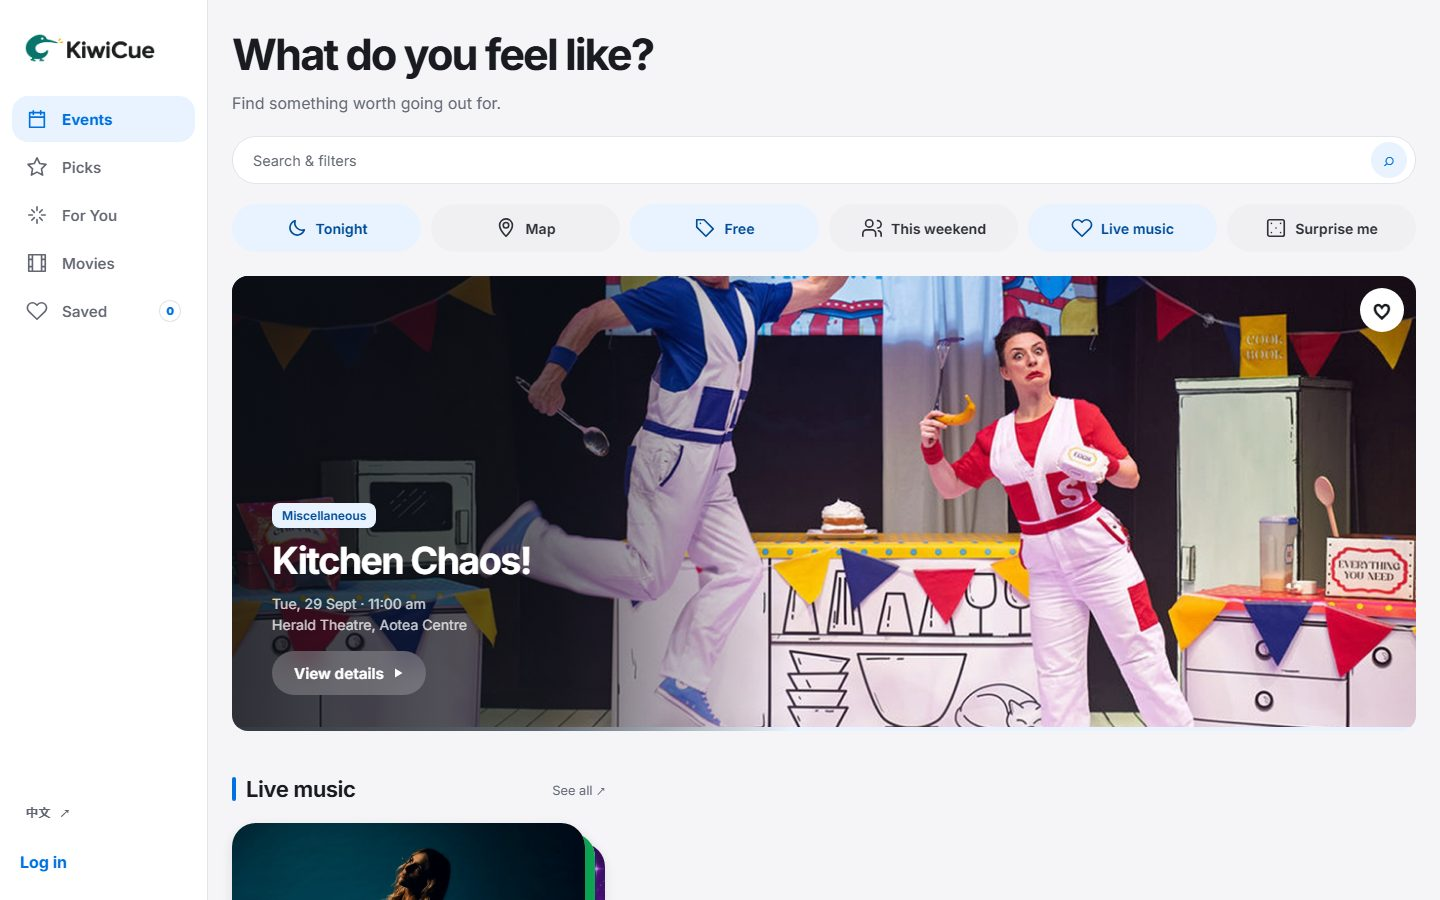
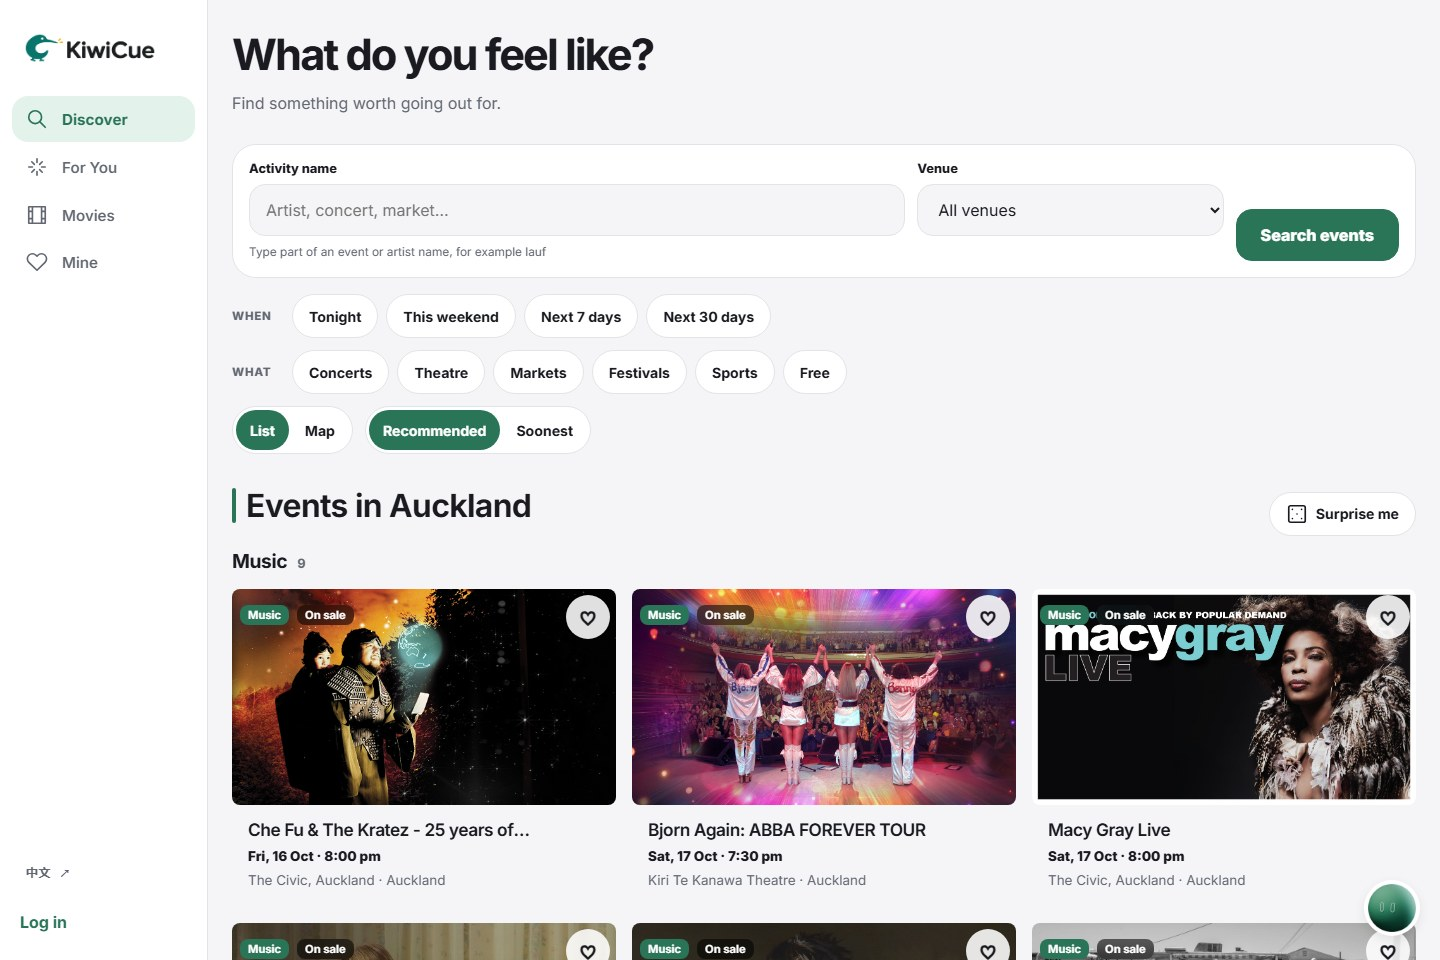
docs: add AI character showcase and event walkthrough GIFs

diff --git a/scripts/encode-readme-demo.py b/scripts/encode-readme-demo.py
@@ -15,13 +15,18 @@ def load_frames(manifest):
     return frames
 
 
-def shared_palette(frames):
+def shared_palette(frames, kind):
     # A shared palette keeps colours stable as the pointer moves over the page.
     sample = Image.new("RGB", (280 * 6, 187 * 6), "white")
     count = min(36, len(frames))
     for index in range(count):
-        selected = frames[round(index * (len(frames) - 1) / max(1, count - 1))]
-        sample.paste(ImageOps.contain(selected, (280, 187)), ((index % 6) * 280, (index // 6) * 187))
+        position = index % 18 if kind == "ai" else index
+        steps = 17 if kind == "ai" else max(1, count - 1)
+        selected = frames[round(position * (len(frames) - 1) / steps)]
+        # Give the small animated orbs enough palette space for their gradients.
+        if kind == "ai" and index >= 18:
+            selected = selected.crop((265, 20, 335, 90))
+        sample.paste(ImageOps.fit(selected, (280, 187)), ((index % 6) * 280, (index // 6) * 187))
     return sample.quantize(colors=256)
 
 
@@ -56,7 +61,7 @@ def encode():
     if kind == "ai":
         manifest = start_with_assistants(manifest)
     frames = load_frames(manifest)
-    palette = shared_palette(frames)
+    palette = shared_palette(frames, kind)
     indexed = [frame.quantize(palette=palette, dither=Image.Dither.NONE) for frame in frames]
     destination = Path("docs/readme/ai-bot.gif" if kind == "ai" else "docs/readme/demo.gif")
     indexed[0].save(

diff --git a/docs/readme/RECORDING.md b/docs/readme/RECORDING.md
@@ -1,0 +1,35 @@
+# README preview recordings / README 动图录制说明
+
+Recorded from the live [KiwiCue deployment](https://kiwicue.nz) on 16 October 2026 (Pacific/Auckland). The deployed interface can differ from a checked-out feature branch. The five assistants were also checked against `origin/main` at `849e20b`.
+
+于新西兰时间 2026 年 10 月 16 日录制自 [KiwiCue 线上站点](https://kiwicue.nz)。线上界面可能与本地功能分支不同；五位助手的信息也已对照 `origin/main` 的 `849e20b` 核实。
+
+## What the GIFs show / 录制范围
+
+- `ai-bot.gif`: opening the assistant, choosing all five characters, animated orbs, matching colour themes, typing a question and switching the voice-input language. The text is entered without sending a question.
+- `demo.gif`: real event discovery, event details, saving as a guest, finding the saved event and switching the interface language.
+- Both GIFs include an overlaid mouse pointer that follows actual Playwright mouse movements. Clicks have a coloured halo. Character animation is sampled from the running page.
+
+- `ai-bot.gif`：打开助手、切换全部五位角色、动态球体、主题配色、输入问题和切换语音输入语言；问题仅输入，不发送。
+- `demo.gif`：真实活动浏览、详情、访客收藏、收藏页和界面语言切换。
+- 两张 GIF 都带有跟随真实 Playwright 鼠标移动的指针，点击时显示彩色光圈；角色动画逐帧采样自实际页面。
+
+## API limitation at capture time / 录制时的接口限制
+
+The live `POST /api/ask` returned HTTP 503 during the attempted question recording. The AI preview therefore covers the working interface interactions. It does not include a successful generated reply or recommendation sequence. No model responses or recommendation results were fabricated.
+
+尝试录制提问时，线上 `POST /api/ask` 返回 HTTP 503。因此当前 AI 动图展示可用的界面交互，不包含成功的生成回复或推荐过程；未伪造模型回复或推荐结果。
+
+## Re-recording / 重新录制
+
+Run the commands in the README from the repository root. The scripts require the project's Playwright dependency, a Playwright Chromium installation and Python with Pillow (`python -m pip install Pillow` if needed).
+
+在仓库根目录运行 README 中的命令。需要项目已有的 Playwright、Playwright 的 Chromium，以及安装了 Pillow 的 Python（缺少时运行 `python -m pip install Pillow`）。
+
+Use `--with-reply` only when the AI service is available. It sends one real question through the normal public flow and records its result. It consumes the configured quota and model budget. The default capture sends no AI requests and uses a fresh guest browser context, with no account credentials.
+
+AI 服务恢复后，可使用 `--with-reply` 发送一次真实问题并录制结果；请求遵循正常公开流程，消耗配置的次数和模型预算。默认录制不发送 AI 请求，使用全新的访客浏览器上下文，不包含账号凭据。
+
+Temporary PNG frames and manifests stay in `output/playwright/`. Only the finished GIFs, still images and these recording notes are intended for Git. GIFs are silent; voice controls are visible, but audio playback needs the live site.
+
+PNG 临时帧及清单保存在 `output/playwright/`，只把成品 GIF、静态截图和录制说明加入 Git。GIF 无音轨；动图可展示语音控件，实际语音播放请在线体验。
